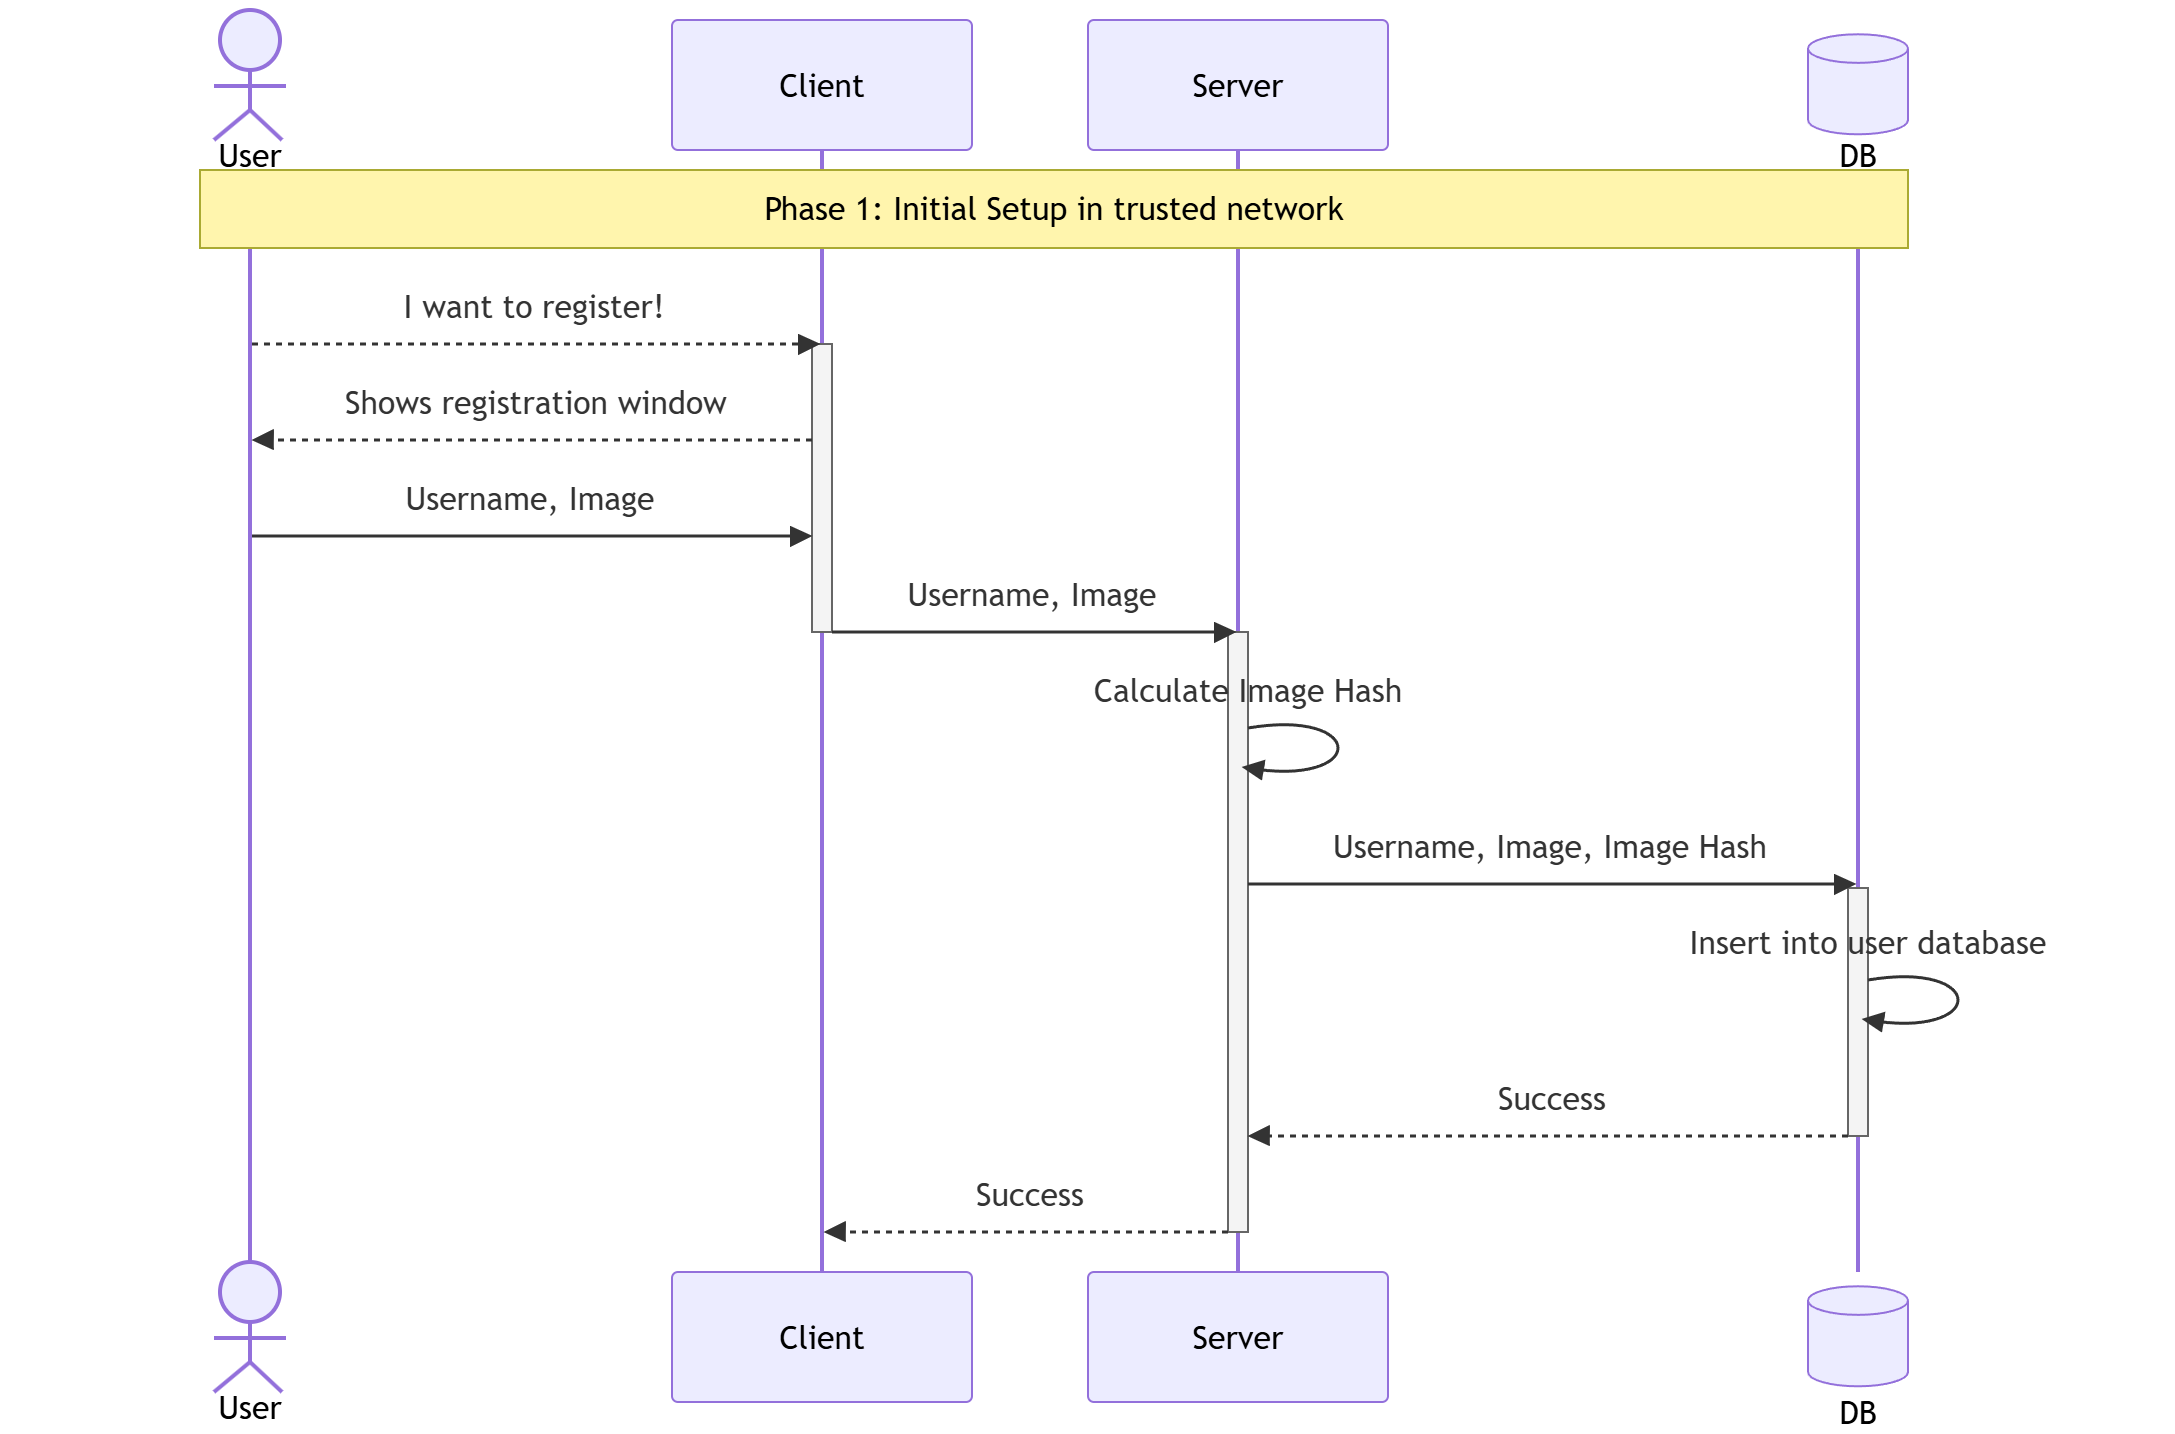
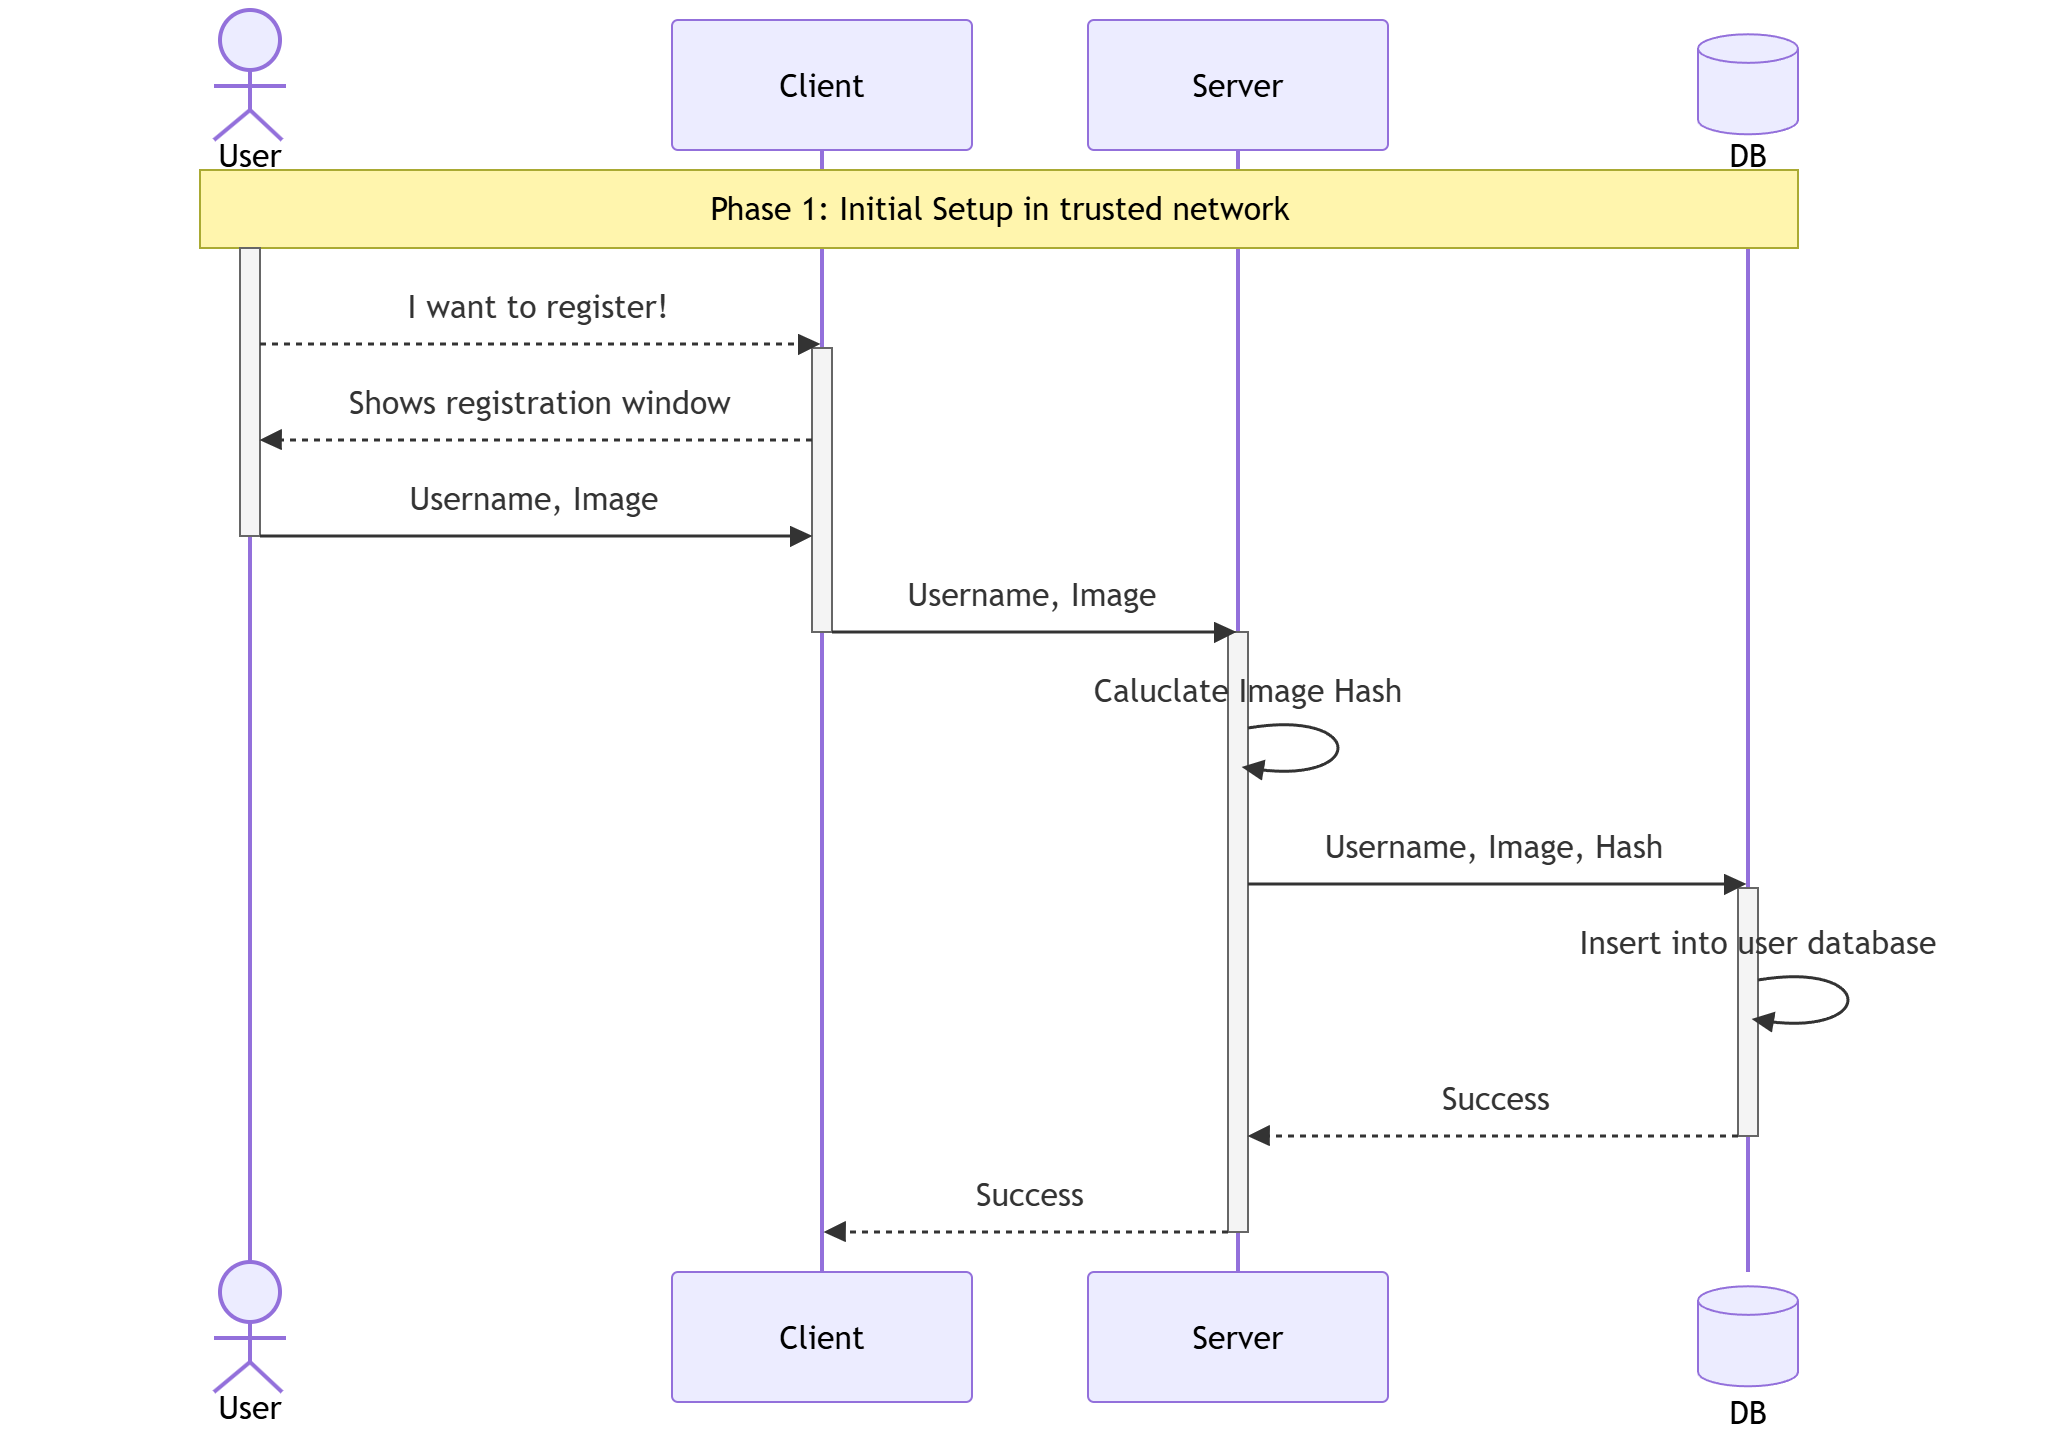
added markdown of diagrams, new diagram for auth flow, writeup update

diff --git a/docs/diagrams/simplified_sequence_phase2_a.md b/docs/diagrams/simplified_sequence_phase2_a.md
@@ -1,0 +1,35 @@
+sequenceDiagram
+    actor User
+    participant CryptoTool
+    participant Client
+    participant Server 
+    participant DB@{ "type" : "database" }
+    Note over User, DB: Phase 2: Continuing Usage in untrusted network
+    Note over User, DB: Authentication (Are you who you say you are)
+    
+    activate User
+    User -->> Client: I want to login! 
+    activate Client
+    Client -->> User: Show login window
+    User -->> Client: Username
+    User ->> CryptoTool: Image
+    deactivate User
+    activate CryptoTool
+    CryptoTool ->> CryptoTool: 1. Calculate Image Hash h<br>2. Generate random Number n <br>3. Generate Hash H(h + n)
+    CryptoTool ->> Client: Hash H, Number n
+    deactivate CryptoTool
+    Client ->> Server: Login Request with <br>Username, Hash H, Number n
+    deactivate Client
+    activate Server
+    Server ->> DB: Fetch Image Hash of Username
+    activate DB
+    DB ->> DB:  Users database lookup
+    DB ->> Server: Serve original Image Hash h 
+    deactivate DB
+    Server ->> Server: 1. Calculate new Hash H'(h+n)<br>2. Check if Hashes H and H' equal 
+    alt Hash H equals Hash H' 
+        Server -->> Client: Login successful, begin key agreement
+    else Hash H does not equal Hash H' 
+        Server -->> Client: Login unsuccessful, close connection
+    deactivate Server
+    end

diff --git a/docs/diagrams/simplified_sequence_phase1.md b/docs/diagrams/simplified_sequence_phase1.md
@@ -1,0 +1,23 @@
+sequenceDiagram
+    actor User
+    participant Client
+    participant Server 
+    participant DB@{ "type" : "database" }
+    Note over User, DB: Phase 1: Initial Setup in trusted network    
+    activate User
+    User -->> Client: I want to register! 
+    activate Client
+    Client -->> User: Shows registration window 
+    User ->> Client: Username, Image
+    deactivate User
+    Client ->> Server: Username, Image
+    deactivate Client
+    activate Server
+    Server ->> Server: Caluclate Image Hash
+    Server ->> DB: Username, Image, Hash
+    activate DB
+    DB ->> DB: Insert into user database
+    DB -->> Server: Success
+    deactivate DB
+    Server -->> Client: Success
+    deactivate Server